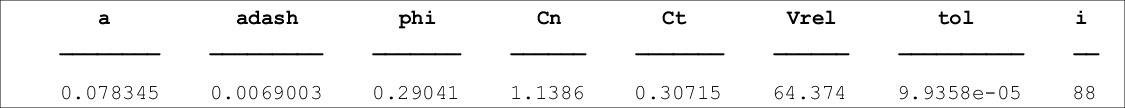
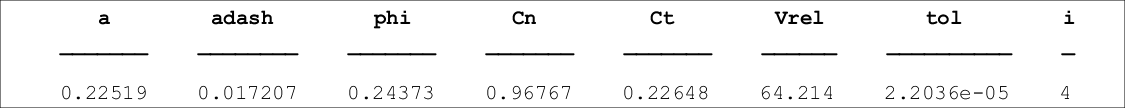
Fix input args for test 1

diff --git a/validtest.m b/validtest.m
@@ -55,7 +55,7 @@ init_V0=20;
 init_theta=0.0733;
 init_R=19.5;
 
-[a, adash, phi, Cn, Ct,Vrel, tol, i]=WTInducedCalcs(init_a,init_adash,init_V0,globaldata.w,init_R,init_theta,1,3,globaldata.logid,globaldata.etol);
+[a, adash, phi, Cn, Ct,Vrel, tol, i]=WTInducedCalcs(init_a,init_adash,init_V0,globaldata.w,init_R,init_theta,1,3,globaldata.logid,globaldata.etol,20);
 %[a, adash, phi, Cn, Ct,Vrel, tol, i]=WTInducedCalcs(0, 0, 5.000000, 3.141593, 8.500000, 0.193245, 1.000000, 3.000000);
 %s1singletable=table(a, adash, phi, Cn, Ct, tol, i);
 statustablematrix([a, adash, phi, Cn, Ct,Vrel, tol, i],{'a', 'adash', 'phi', 'Cn', 'Ct','Vrel', 'tol', 'i'},'status/s1_singlevalidation.png','Section 1 Single Validation','figure',1);
